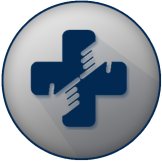
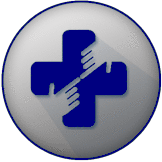
uichange

diff --git a/phms/lib/PHMS/components/constants.dart b/phms/lib/PHMS/components/constants.dart
@@ -1,20 +1,21 @@
 import 'package:flutter/material.dart';
 
-const UavPrimaryColor =  Color(0xff4169e1); //Color(0xFF425A8B);
-const UavSecondaryColor = Color(0xff4169e1);
-const UavTextColor = Color(0xff4169e1);
+const UavPrimaryColor =  Color(0xff000080); //Color(0xFF425A8B);
+const UavSecondaryColor = Color(0xff000080);
+const UavTextColor = Color(0xff000080);
 
 
 
 // AppBar color
-const AppBar_Color=  Color(0xff4169e1);
+const AppBar_Color=  Color(0xff000080);
 const AppBar_Icon_Color= Colors.white;
 const AppBar_Text_Color=  Colors.white;
+const Select_Icon_Color=  Color(0xF77BBBE5);
 
 
 //Activity color
 const Activity_Icon_Color_White = Colors.white;
-const Activity_ALL_Text_Color = Color(0xff4169e1);
+const Activity_ALL_Text_Color = Color(0xff000080);
 
 const Activity_EditText_Border_Color =  Colors.black;
 const Activity_EditText_Hint_Color = Colors.black;
@@ -36,8 +37,8 @@ const Activity_Tab_UnSelect_Color = Color.fromRGBO(119, 119, 119, 1);
 
 
 
-const Activity_Button_BG_Color= Color(0xff4169e1);
-const Activity_Button_Border_Color = Color(0xff4169e1);
+const Activity_Button_BG_Color= Color(0xff000080);
+const Activity_Button_Border_Color = Color(0xff000080);
 const Activity_Button_Text_Color =Colors.white;
 
 
@@ -46,7 +47,7 @@ const Activity_Dialog_Title_Color =Colors.grey;
 const Activity_Dialog_Message_Color =Colors.grey;
 
 const Activity_Container_Border_Color_White =Colors.white;
-const Activity_Bottom_Nav_Color =Color(0xff4169e1);
+const Activity_Bottom_Nav_Color =Color(0xff000080);
 const Activity_Divider_Color =Colors.white;
 
 
@@ -54,7 +55,7 @@ const Activity_Divider_Color =Colors.white;
 const Activity_Card_Border_Color =Colors.black;
 
 
-const actions_bg_orange =Color(0xff4169e1);
+const actions_bg_orange =Color(0xff000080);
 
 
 

diff --git a/phms/lib/PHMS/components/theme.dart b/phms/lib/PHMS/components/theme.dart
@@ -6,7 +6,7 @@ import 'constants.dart';
 
 ThemeData theme() {
   final baseTheme =
-      ThemeData(primarySwatch: createMaterialColor(Color(0xff4169e1)));
+      ThemeData(primarySwatch: createMaterialColor(Color(0xff000080)));
 
   return baseTheme.copyWith(
       scaffoldBackgroundColor: Colors.white,
@@ -42,10 +42,8 @@ const customCardTheme =
 
 AppBarTheme appBarTheme() {
   return AppBarTheme(
-    //color: UavPrimaryColor, // Colors.white,
-    // elevation: 0,
-    //brightness: Brightness.dark,
-    backgroundColor: AppBar_Color,
+    backgroundColor: AppBar_Color, // Set app bar color
+    brightness: Brightness.dark, // Set app bar icon brightness to dark (white icons)
     iconTheme: IconThemeData(color: AppBar_Icon_Color),
     textTheme: TextTheme(
       headline6: TextStyle(color: AppBar_Text_Color, fontSize: 18),

diff --git a/phms/lib/PHMS/view/home/DashboardScreen.dart b/phms/lib/PHMS/view/home/DashboardScreen.dart
@@ -59,8 +59,8 @@ class _DashboardScreenState extends State<DashboardScreen> {
               onGenerateRoute: RouteGenerator.homeRoute),
           bottomNavigationBar: BottomNavigationBar(
             backgroundColor: Constants.UavPrimaryColor, // Set the background color here
-            selectedItemColor: Constants.AppBar_Icon_Color, // Set color for selected item
-            unselectedItemColor: Constants.Activity_Text_Color_Black, // Set color for unselected items
+            selectedItemColor: Constants.Select_Icon_Color, // Set color for selected item
+            unselectedItemColor: Constants.AppBar_Icon_Color, // Set color for unselected items
 
             items: const <BottomNavigationBarItem>[
               BottomNavigationBarItem(

diff --git a/phms/lib/main.dart b/phms/lib/main.dart
@@ -3,6 +3,7 @@ import 'package:flutter/material.dart';
 import 'package:flutter/services.dart';
 import 'package:flutter_easyloading/flutter_easyloading.dart';
 
+import 'PHMS/components/constants.dart';
 import 'PHMS/components/routes.dart';
 import 'PHMS/components/theme.dart';
 import 'PHMS/view/splash/SplashScreen.dart';
@@ -10,7 +11,7 @@ import 'PHMS/view/splash/SplashScreen.dart';
 void main() {
   SystemChrome.setSystemUIOverlayStyle(SystemUiOverlayStyle(
     // systemNavigationBarColor: Colors.blue, // navigation bar color
-    statusBarColor:Colors.transparent , // status bar color
+    statusBarColor:UavPrimaryColor, // status bar color
     statusBarIconBrightness:Brightness.light,
     statusBarBrightness:Brightness.light,
   ));
